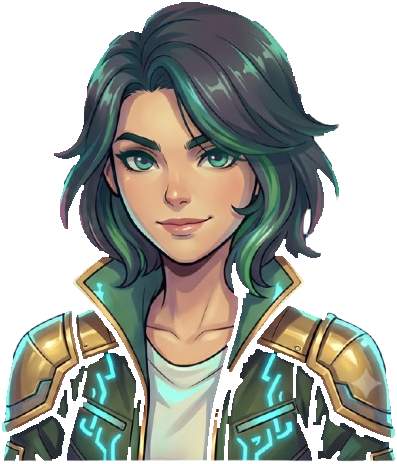
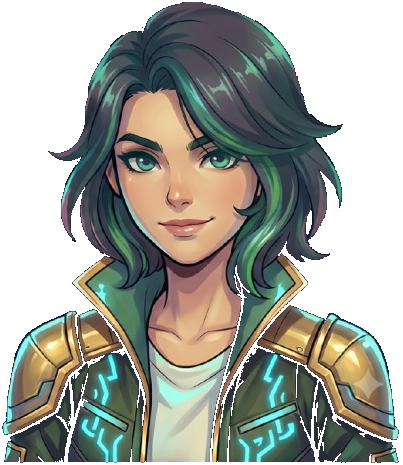
Corrige traitement frange mascottes hero

diff --git a/static/pwa/sw.js b/static/pwa/sw.js
@@ -1,5 +1,5 @@
 // build: 20260617-3
-const CACHE_NAME = 'bookstorage-v11';
+const CACHE_NAME = 'bookstorage-v12';
 const STATIC_ASSETS = [
   '/static/css/base.css',
   '/static/css/brand.css',

diff --git a/scripts/fix_brand_fringe.py b/scripts/fix_brand_fringe.py
@@ -1,20 +1,16 @@
 #!/usr/bin/env python3
-"""Retire le fond noir et les halos blancs en bordure des mascottes / rogne le logo navbar."""
+"""Prépare les mascottes hero : fond noir → transparent, sans érosion destructive."""
 
 from collections import deque
 from pathlib import Path
 
-from PIL import Image, ImageFilter
+from PIL import Image
 
 ROOT = Path(__file__).resolve().parents[1]
 BRAND = ROOT / "static" / "brand"
-MASCOTS = (
+HERO_MASCOTS = (
     "hero-female.png",
     "hero-male.png",
-)
-PROFILE_MASCOTS = (
-    "femmal.png",
-    "male.png",
 )
 LOGO = BRAND / "logos" / "logo.png"
 SOURCE_DIR = BRAND / "mascots" / "source"
@@ -48,50 +44,55 @@ def flood_remove_dark(img: Image.Image, threshold: int = 48) -> Image.Image:
     return img
 
 
-def erode_alpha(img: Image.Image, radius: int) -> Image.Image:
-    if radius <= 0:
-        return img
-    img = img.convert("RGBA")
-    r, g, b, a = img.split()
-    for _ in range(radius):
-        a = a.filter(ImageFilter.MinFilter(3))
-    return Image.merge("RGBA", (r, g, b, a))
-
-
-def dilate_alpha(img: Image.Image, radius: int) -> Image.Image:
-    if radius <= 0:
-        return img
-    img = img.convert("RGBA")
-    r, g, b, a = img.split()
-    for _ in range(radius):
-        a = a.filter(ImageFilter.MaxFilter(3))
-    return Image.merge("RGBA", (r, g, b, a))
-
-
-def strip_white_fringe(img: Image.Image, max_passes: int = 8) -> Image.Image:
-    """Retire les pixels quasi blancs au contact direct du transparent."""
+def unmatte_white_edges(img: Image.Image) -> Image.Image:
+    """Corrige les pixels semi-transparents issus d'un détourage sur fond blanc."""
     img = img.convert("RGBA")
     w, h = img.size
     px = img.load()
+    for y in range(h):
+        for x in range(w):
+            r, g, b, a = px[x, y]
+            if a == 0 or a == 255:
+                continue
+            af = a / 255.0
+            fr = (r - (1.0 - af) * 255.0) / af
+            fg = (g - (1.0 - af) * 255.0) / af
+            fb = (b - (1.0 - af) * 255.0) / af
+            if fr < 8 and fg < 8 and fb < 8:
+                px[x, y] = (0, 0, 0, 0)
+                continue
+            px[x, y] = (
+                max(0, min(255, int(fr))),
+                max(0, min(255, int(fg))),
+                max(0, min(255, int(fb))),
+                a,
+            )
+    return img
+
+
+def peel_opaque_white_border(img: Image.Image, max_passes: int = 8) -> Image.Image:
+    """Retire les pixels quasi blancs opaques au bord (matte d'export IA)."""
+    img = img.convert("RGBA")
+    w, h = img.size
+    px = img.load()
+
+    def near_white(r: int, g: int, b: int) -> bool:
+        lum = (r + g + b) / 3
+        sat = max(r, g, b) - min(r, g, b)
+        return lum >= 212 and sat <= 22
+
     for _ in range(max_passes):
         to_clear: list[tuple[int, int]] = []
         for y in range(h):
             for x in range(w):
                 r, g, b, a = px[x, y]
-                if a == 0:
+                if a == 0 or not near_white(r, g, b):
                     continue
-                lum = (r + g + b) / 3
-                sat = max(r, g, b) - min(r, g, b)
-                if lum < 208 or sat > 24:
-                    continue
-                touches_transparent = False
                 for dx, dy in ((-1, 0), (1, 0), (0, -1), (0, 1)):
                     nx, ny = x + dx, y + dy
                     if nx < 0 or ny < 0 or nx >= w or ny >= h or px[nx, ny][3] == 0:
-                        touches_transparent = True
+                        to_clear.append((x, y))
                         break
-                if touches_transparent:
-                    to_clear.append((x, y))
         if not to_clear:
             break
         for x, y in to_clear:
@@ -120,17 +121,12 @@ def load_mascot_source(name: str) -> Image.Image:
     return Image.open(path).convert("RGBA")
 
 
-def process_mascot(name: str) -> Image.Image:
+def process_hero_mascot(name: str) -> Image.Image:
     path = BRAND / "mascots" / name
     img = load_mascot_source(name)
     img = flood_remove_dark(img)
-    img = strip_white_fringe(img, max_passes=10)
-    if name.startswith("hero-"):
-        img = erode_alpha(img, 2)
-        img = dilate_alpha(img, 1)
-    else:
-        img = erode_alpha(img, 1)
-    img = strip_white_fringe(img, max_passes=6)
+    img = unmatte_white_edges(img)
+    img = peel_opaque_white_border(img, max_passes=10)
     img = trim_alpha(img)
     img.save(path, format="PNG", optimize=True)
     return img
@@ -145,18 +141,12 @@ def trim_logo_nav(path: Path) -> Image.Image:
 
 
 def main() -> None:
-    for name in MASCOTS:
+    for name in HERO_MASCOTS:
         path = BRAND / "mascots" / name
         if not path.exists() and not (SOURCE_DIR / name).exists():
             print(f"skip missing {name}")
             continue
-        out = process_mascot(name)
-        print(f"  mascots/{name}: {out.size[0]}x{out.size[1]}")
-    for name in PROFILE_MASCOTS:
-        source = SOURCE_DIR / name
-        if not source.exists():
-            continue
-        out = process_mascot(name)
+        out = process_hero_mascot(name)
         print(f"  mascots/{name}: {out.size[0]}x{out.size[1]}")
     if LOGO.exists():
         out = trim_logo_nav(LOGO)

diff --git a/static/brand/README.md b/static/brand/README.md
@@ -26,7 +26,7 @@ Après avoir mis à jour vos PNG, exécutez :
 python scripts/prepare_brand_assets.py
 ```
 
-Pour remplacer les portraits hero, déposez d’abord les PNG sources dans `mascots/source/` puis relancez le script (détourage + anti-frange blanc).
+Pour remplacer les portraits hero, déposez les PNG sources (fond noir) dans `mascots/source/` puis relancez le script. Un léger liseré peut rester si l’export IA avait un fond blanc (invisible sur noir, visible sur le site clair) — pour un rendu parfait, exportez en PNG **fond transparent natif**.
 
 Cela crée ou met à jour :
 